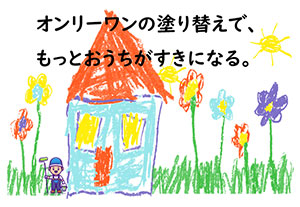
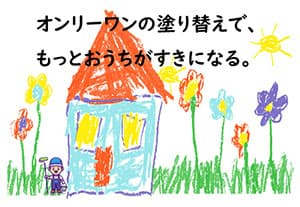
main

diff --git a/src/pages/index.js b/src/pages/index.js
@@ -33,7 +33,7 @@ const Home = ({ data }) => {
 
       <div className="catch_title">
         <h2>
-          <img src="../images/catch_txt.png" width={1200} height={249} alt="ご近所だからできるスピーディーな対応。地元安佐北区での施工実績豊富な佐々木塗装に相談して見ませんか？" />
+          <StaticImage src="../images/catch_txt.png" width={1200} height={249} alt="ご近所だからできるスピーディーな対応。地元安佐北区での施工実績豊富な佐々木塗装に相談して見ませんか？" />
         </h2>
       </div>
 
@@ -68,7 +68,7 @@ const Home = ({ data }) => {
                     <h4>お知らせ</h4>
                   </div>
                   <div className="w50p_smp_s smp_s">
-                    <img src="../images/news_thumb.jpg" width={159} height={110} loading="lazy" alt="" />
+                    <StaticImage src="../images/news_thumb.jpg" width={159} height={110} loading="lazy" alt="" />
                   </div>
                 </div>
               </div>
@@ -99,7 +99,7 @@ const Home = ({ data }) => {
             
             <img src="../images/works_bg02.jpg" width={1920} height={1100} loading="lazy" alt="施工事例イメージ" className="pc" />
             
-            <h4><img src="../images/works_bg02_smp.jpg" width={375} height={215} alt="広島市安佐北区で施工事例913件以上!" className="smp" loading="lazy" /></h4>
+            <h4><StaticImage src="../images/works_bg02_smp.jpg" width={375} height={215} alt="広島市安佐北区で施工事例913件以上!" className="smp" loading="lazy" /></h4>
             
             <div className="works_inner">
 
@@ -112,8 +112,8 @@ const Home = ({ data }) => {
                 <p className="center"><Link to="/case/" className="bt02"><FontAwesomeIcon icon={faAngleRight} /> 施工事例はこちらから</Link></p>
                 
                 <ul className="jirei_pic">
-                  <li><img src="../images/kansyajyo_pic01.png" width={200} height={267} alt="感謝状イメージ1" loading="lazy" /></li>
-                  <li><img src="../images/kansyajyo_pic02.png" width={200} height={267} alt="感謝状イメージ2" loading="lazy" /></li>
+                  <li><StaticImage src="../images/kansyajyo_pic01.png" width={200} height={267} alt="感謝状イメージ1" loading="lazy" /></li>
+                  <li><StaticImage src="../images/kansyajyo_pic02.png" width={200} height={267} alt="感謝状イメージ2" loading="lazy" /></li>
                 </ul>
 
               </div>
@@ -123,7 +123,7 @@ const Home = ({ data }) => {
         </section>
 
         <div className="center mtb3p">
-          <img src="../images/catch_pic01.jpg" width={1200} height={282} alt="「私たちが佐々木さんをお薦めします！！」" loading="lazy" />
+          <StaticImage src="../images/catch_pic01.jpg" width={1200} height={282} alt="「私たちが佐々木さんをお薦めします！！」" loading="lazy" />
         </div>
 
         <Kuchikomi />
@@ -176,9 +176,9 @@ const Home = ({ data }) => {
             <ul className="img_list3">
               <li><Link to="/gaiheki/"><img src="../images/bn01.jpg" width={376} height={139} className="opa" loading="lazy" alt="外壁塗装" /></Link></li>
               <li><Link to="/yane/"><img src="../images/bn02.jpg" width={376} height={139} className="opa" loading="lazy" alt="屋根塗装" /></Link></li>
-              <li><Link to="/yanefuki/"><img src="../images/bn03.jpg" width={376} height={139} className="opa" loading="lazy" alt="屋根葺替" /></Link></li>
+              <li><Link to="/yanefuki/"><StaticImage src="../images/bn03.jpg" width={376} height={139} className="opa" loading="lazy" alt="屋根葺替" /></Link></li>
               <li><Link to="/yanecover/"><img src="../images/bn04.jpg" width={376} height={139} className="opa" loading="lazy" alt="屋根カバー工法" /></Link></li>
-              <li><Link to="/drainspout/"><img src="../images/bn05.jpg" width={376} height={139} className="opa" loading="lazy" alt="雨樋の交換" /></Link></li>
+              <li><Link to="/drainspout/"><StaticImage src="../images/bn05.jpg" width={376} height={139} className="opa" loading="lazy" alt="雨樋の交換" /></Link></li>
               <li><Link to="/exterior/"><img src="../images/bn06.jpg" width={376} height={139} className="opa" loading="lazy" alt="エクステリア" /></Link></li>
             </ul>
 

diff --git a/src/components/About.js b/src/components/About.js
@@ -1,5 +1,5 @@
 import React from 'react'
-
+import { StaticImage } from "gatsby-plugin-image"
 import { Link } from "gatsby"
 
 import { FontAwesomeIcon } from "@fortawesome/react-fontawesome"
@@ -23,7 +23,7 @@ const about = () => {
                         <p><Link to="/company/" className="bt01"><FontAwesomeIcon icon={faAngleRight} /> 会社概要はこちら</Link></p>
                     </div>
                     <div className="about_r">
-                    <img src="/images/about_pic01.jpg" width={761} height={508} loading="lazy" alt="" />
+                    <StaticImage src="/images/about_pic01.jpg" width={761} height={508} loading="lazy" alt="" />
                     </div>
                 </div>
             </div>
@@ -44,7 +44,7 @@ const about = () => {
                     </div>
                     
                     <div className="point_r">
-                    <img src="/images/point_pic01.jpg" width={761} height={508} loading="lazy" alt="" />
+                    <StaticImage src="/images/point_pic01.jpg" width={761} height={508} loading="lazy" alt="" />
                     </div>
                 </div>
             </div>
